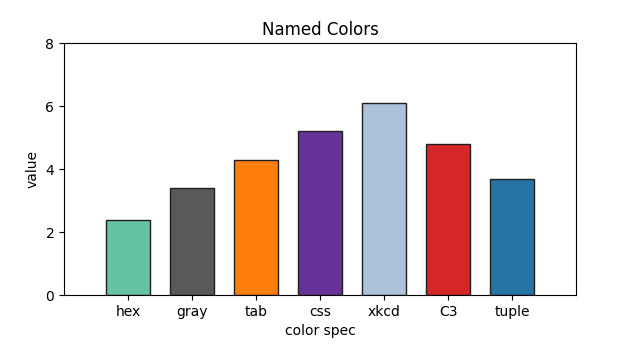
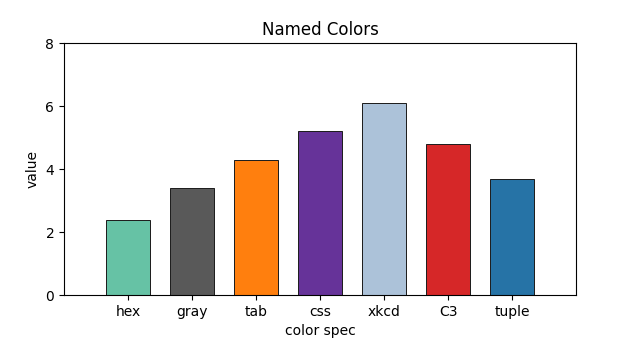
feat: Refactor Bar2D drawing logic to use a single path for fill and stroke, and update related tests

diff --git a/core/bar.go b/core/bar.go
@@ -87,33 +87,36 @@ func (b *Bar2D) Draw(r render.Renderer, ctx *DrawContext) {
 		edgeColor.A *= alpha
 
 		// Create rectangle path based on orientation.
-		var fillPath, strokePath geom.Path
+		var path geom.Path
 		if b.Orientation == BarVertical {
-			fillPath, strokePath = b.createVerticalBarPaths(x, height, width, baseline, ctx)
+			path = b.createVerticalBarPath(x, height, width, baseline, ctx)
 		} else {
-			fillPath, strokePath = b.createHorizontalBarPaths(x, height, width, baseline, ctx)
+			path = b.createHorizontalBarPath(x, height, width, baseline, ctx)
 		}
 
-		if len(fillPath.C) == 0 {
+		if len(path.C) == 0 {
 			continue // skip invalid bars
 		}
 
-		if fillColor.A > 0 {
-			r.Path(fillPath, &render.Paint{Fill: fillColor})
+		paint := render.Paint{
+			Snap: render.SnapAuto,
 		}
-
-		if b.EdgeWidth > 0 && edgeColor.A > 0 && len(strokePath.C) > 0 {
-			r.Path(strokePath, &render.Paint{
-				Stroke:    edgeColor,
-				LineWidth: b.EdgeWidth,
-				LineJoin:  render.JoinMiter,
-				LineCap:   render.CapButt,
-			})
+		if fillColor.A > 0 {
+			paint.Fill = fillColor
+		}
+		if b.EdgeWidth > 0 && edgeColor.A > 0 {
+			paint.Stroke = edgeColor
+			paint.LineWidth = b.EdgeWidth
+			paint.LineJoin = render.JoinMiter
+			paint.LineCap = render.CapButt
+		}
+		if paint.Fill.A > 0 || paint.Stroke.A > 0 {
+			r.Path(path, &paint)
 		}
 	}
 }
 
-func (b *Bar2D) createVerticalBarPaths(x, height, width, baseline float64, ctx *DrawContext) (geom.Path, geom.Path) {
+func (b *Bar2D) createVerticalBarPath(x, height, width, baseline float64, ctx *DrawContext) geom.Path {
 	// Calculate rectangle corners in data space
 	halfWidth := width / 2
 	left := x - halfWidth
@@ -131,12 +134,12 @@ func (b *Bar2D) createVerticalBarPaths(x, height, width, baseline float64, ctx *
 	px1 := ctx.DataToPixel.Apply(geom.Pt{X: right, Y: top})
 	rect, ok := rectFromPoints(px0, px1)
 	if !ok {
-		return geom.Path{}, geom.Path{}
+		return geom.Path{}
 	}
-	return snappedFillRectPath(rect), snappedStrokeRectPath(rect)
+	return pixelRectPath(rect)
 }
 
-func (b *Bar2D) createHorizontalBarPaths(y, height, width, baseline float64, ctx *DrawContext) (geom.Path, geom.Path) {
+func (b *Bar2D) createHorizontalBarPath(y, height, width, baseline float64, ctx *DrawContext) geom.Path {
 	// For horizontal bars:
 	// y is the y-position (center)
 	// height is the length (width) of the bar
@@ -157,9 +160,9 @@ func (b *Bar2D) createHorizontalBarPaths(y, height, width, baseline float64, ctx
 	px1 := ctx.DataToPixel.Apply(geom.Pt{X: right, Y: top})
 	rect, ok := rectFromPoints(px0, px1)
 	if !ok {
-		return geom.Path{}, geom.Path{}
+		return geom.Path{}
 	}
-	return snappedFillRectPath(rect), snappedStrokeRectPath(rect)
+	return pixelRectPath(rect)
 }
 
 // Z returns the z-order for sorting.

diff --git a/core/pixel_snap_test.go b/core/pixel_snap_test.go
@@ -60,7 +60,7 @@ func TestSnapPixelRectTreatsNearHalfTiesLikeMatplotlibTransformOutput(t *testing
 	}
 }
 
-func TestBar2D_DrawSnapsFillAndStrokeRectsLikeMatplotlibBars(t *testing.T) {
+func TestBar2D_DrawUsesSingleSnapAutoPatchPathForFilledStrokedBars(t *testing.T) {
 	bar := &Bar2D{
 		X:           []float64{1},
 		Heights:     []float64{2.25},
@@ -74,32 +74,27 @@ func TestBar2D_DrawSnapsFillAndStrokeRectsLikeMatplotlibBars(t *testing.T) {
 	r := &recordingRenderer{}
 	bar.Draw(r, createFractionalDrawContext())
 
-	if len(r.pathCalls) != 2 {
-		t.Fatalf("expected fill and stroke path calls, got %d", len(r.pathCalls))
+	if len(r.pathCalls) != 1 {
+		t.Fatalf("expected one combined fill/stroke path call, got %d", len(r.pathCalls))
 	}
 
-	fill := r.pathCalls[0].path.V
-	if len(fill) != 4 {
-		t.Fatalf("expected 4 fill vertices, got %d", len(fill))
+	path := r.pathCalls[0].path.V
+	if len(path) != 4 {
+		t.Fatalf("expected 4 bar vertices, got %d", len(path))
 	}
-	if fill[0] != (geom.Pt{X: 56, Y: 428}) || fill[2] != (geom.Pt{X: 64, Y: 450}) {
-		t.Fatalf("unexpected snapped fill vertices: %+v", fill)
+	if !pointAlmostEqual(path[0], geom.Pt{X: 55.918, Y: 427.7175}) ||
+		!pointAlmostEqual(path[2], geom.Pt{X: 63.542, Y: 449.7}) {
+		t.Fatalf("unexpected unsnapped bar vertices: %+v", path)
 	}
-
-	stroke := r.pathCalls[1].path.V
-	if len(stroke) != 4 {
-		t.Fatalf("expected 4 stroke vertices, got %d", len(stroke))
-	}
-	// y-up stroke snap offsets Y by -0.5 (round - 0.5).
-	if stroke[0] != (geom.Pt{X: 56.5, Y: 427.5}) || stroke[2] != (geom.Pt{X: 64.5, Y: 449.5}) {
-		t.Fatalf("unexpected snapped stroke vertices: %+v", stroke)
-	}
-	paint := r.pathCalls[1].paint
-	if paint.Stroke != bar.EdgeColor || paint.LineWidth != bar.EdgeWidth {
-		t.Fatalf("stroke paint = %+v, want edge color/linewidth from bar", paint)
+	paint := r.pathCalls[0].paint
+	if paint.Fill != bar.Color || paint.Stroke != bar.EdgeColor || paint.LineWidth != bar.EdgeWidth {
+		t.Fatalf("bar paint = %+v, want combined face/edge paint", paint)
 	}
 	if paint.LineJoin != render.JoinMiter || paint.LineCap != render.CapButt {
 		t.Fatalf("bar stroke style = join %v cap %v, want Matplotlib miter/butt", paint.LineJoin, paint.LineCap)
+	}
+	if paint.Snap != render.SnapAuto {
+		t.Fatalf("bar snap = %v, want SnapAuto like Matplotlib Patch.draw", paint.Snap)
 	}
 }
 

diff --git a/test/parity/named_colors/plot.go b/test/parity/named_colors/plot.go
@@ -48,16 +48,15 @@ func Plot() *core.Figure {
 	}
 
 	x := []float64{1, 2, 3, 4, 5, 6, 7}
-	bar := &core.Bar2D{
-		X:           x,
-		Heights:     []float64{2.4, 3.4, 4.3, 5.2, 6.1, 4.8, 3.7},
-		Width:       0.68,
-		Colors:      colors,
-		EdgeColor:   render.Color{R: 0.12, G: 0.12, B: 0.12, A: 1},
-		EdgeWidth:   1,
-		Orientation: core.BarVertical,
-	}
-	ax.Add(bar)
+	width := 0.68
+	edgeColor := render.Color{R: 0.12, G: 0.12, B: 0.12, A: 1}
+	edgeWidth := 1.0
+	ax.Bar(x, []float64{2.4, 3.4, 4.3, 5.2, 6.1, 4.8, 3.7}, core.BarOptions{
+		Width:     &width,
+		Colors:    colors,
+		EdgeColor: &edgeColor,
+		EdgeWidth: &edgeWidth,
+	})
 	ax.XAxis.Locator = core.FixedLocator{TicksList: x}
 	ax.XAxis.Formatter = core.FixedFormatter{Labels: labels}
 	ax.YAxis.Locator = core.FixedLocator{TicksList: []float64{0, 2, 4, 6, 8}}

diff --git a/core/bar_test.go b/core/bar_test.go
@@ -322,6 +322,20 @@ func TestBar2D_NegativeValues(t *testing.T) {
 	}
 }
 
+func TestAxesBarPreservesEdgeWidthPixelsForMatplotlibRefHelpers(t *testing.T) {
+	fig := NewFigure(800, 600)
+	ax := fig.AddAxes(geom.Rect{Min: geom.Pt{}, Max: geom.Pt{X: 1, Y: 1}})
+	edgeWidth := 1.0
+
+	bar := ax.Bar([]float64{1}, []float64{3}, BarOptions{EdgeWidth: &edgeWidth})
+	if bar == nil {
+		t.Fatal("Bar returned nil")
+	}
+	if got := bar.EdgeWidth; got != edgeWidth {
+		t.Fatalf("bar edge width = %v, want Go renderer pixel width %v", got, edgeWidth)
+	}
+}
+
 func TestBar2D_EdgeColors(t *testing.T) {
 	// Test with edge colors and width
 	bar := &Bar2D{

diff --git a/test/matplotlib_ref/plots/named_colors.py b/test/matplotlib_ref/plots/named_colors.py
@@ -30,7 +30,7 @@ def named_colors(out_dir):
         "C3",
         (0.15, 0.45, 0.65, 1),
     ]
-    ax.bar(x, heights, width=0.68, color=colors, edgecolor=(0.12, 0.12, 0.12), linewidth=1)
+    ax.bar(x, heights, width=0.68, color=colors, edgecolor=(0.12, 0.12, 0.12), linewidth=lw(1.0))
     ax.set_xticks(x, ["hex", "gray", "tab", "css", "xkcd", "C3", "tuple"])
     ax.set_yticks([0, 2, 4, 6, 8])
     save(fig, out_dir, "named_colors")

diff --git a/test/parity/named_colors/plot.py b/test/parity/named_colors/plot.py
@@ -30,7 +30,7 @@ def named_colors(out_dir):
         "C3",
         (0.15, 0.45, 0.65, 1),
     ]
-    ax.bar(x, heights, width=0.68, color=colors, edgecolor=(0.12, 0.12, 0.12), linewidth=1)
+    ax.bar(x, heights, width=0.68, color=colors, edgecolor=(0.12, 0.12, 0.12), linewidth=lw(1.0))
     ax.set_xticks(x, ["hex", "gray", "tab", "css", "xkcd", "C3", "tuple"])
     ax.set_yticks([0, 2, 4, 6, 8])
     save(fig, out_dir, "named_colors")
